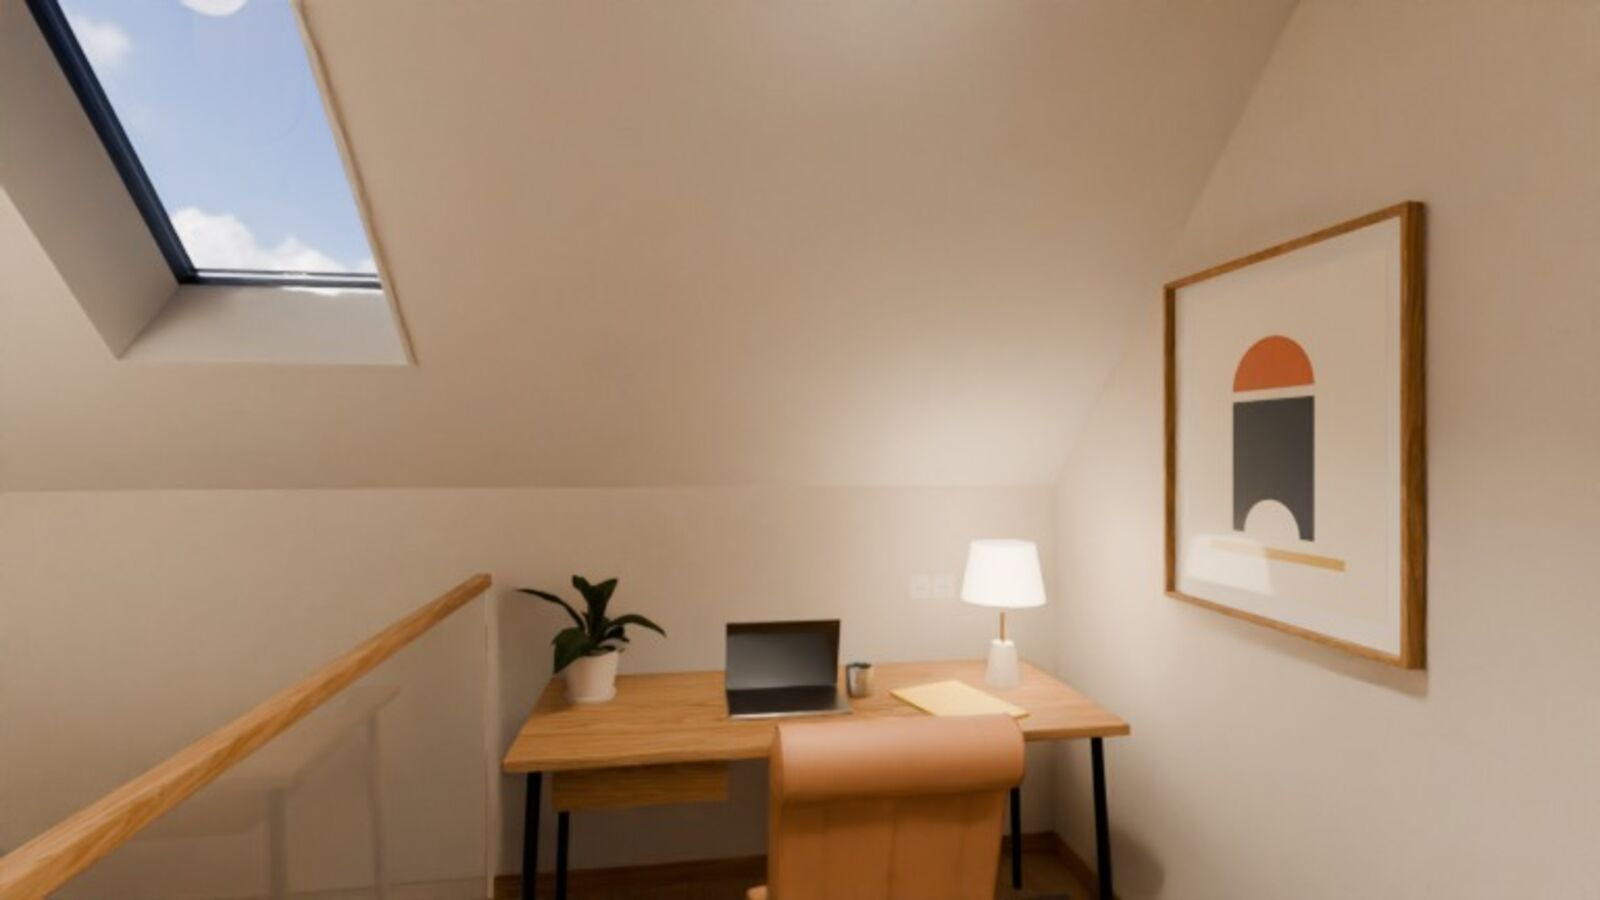
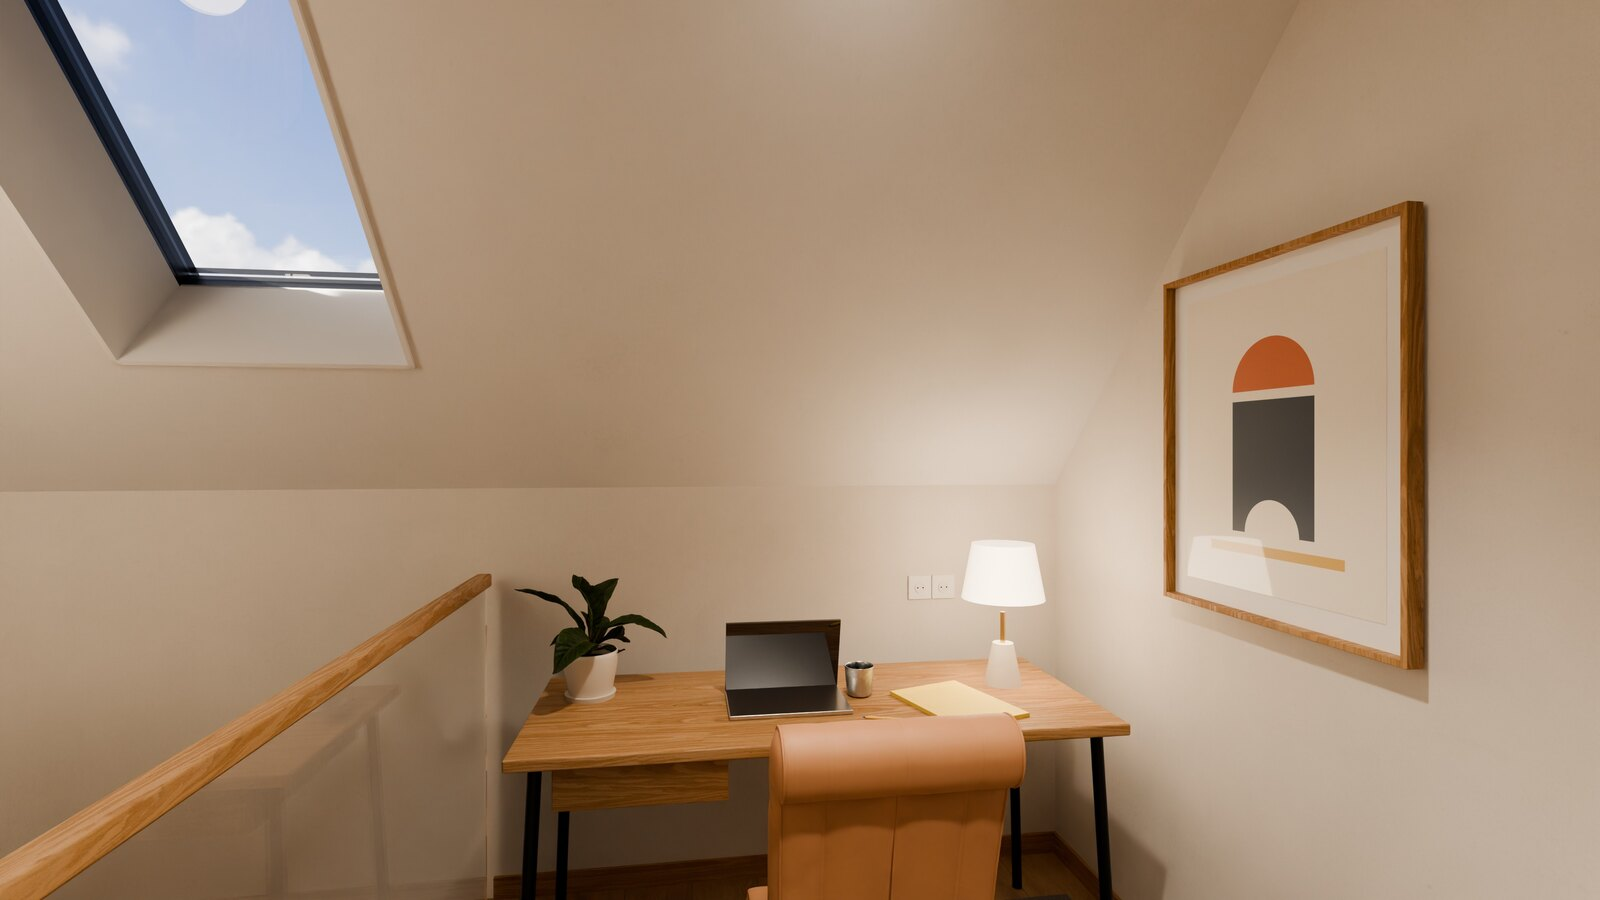
Boligannonse: 17 av 25 bilder i 4K

diff --git a/annonse/index.html b/annonse/index.html
@@ -103,7 +103,7 @@ img { max-width: 100%; }
 
 <div class="ark">
   <header class="topp">
-    <div class="merke"><strong>3D-visualisering av planlagt ombygging</strong><span>15 av 25 bilder er ferdige i 4K, resten er forhåndsvisninger</span></div>
+    <div class="merke"><strong>3D-visualisering av planlagt ombygging</strong><span>17 av 25 bilder er ferdige i 4K, resten er forhåndsvisninger</span></div>
     <h1>Enebolig med golfanneks og oppvarmet garasje</h1>
     <figure class="bilde hero"><button type="button" class="apne" data-i="0" aria-label="Åpne bildet: Fasaden mot nord med overbygd inngang"><img src="img/01-fasade.jpg" width="1600" height="900" alt="Fasaden mot nord med overbygd inngang"></button><figcaption>Fasaden mot nord med overbygd inngang</figcaption></figure>
     <p class="ingress">Et hus over tre plan med stue og kjøkken mot hagen, hovedsoverom med eget bad, tre barnerom og loft. I hagen står et anneks med golfsimulator. Trykk på et bilde for å se det i full oppløsning. På mobil fyller bildet hele skjermen når du snur den, og du blar ved å sveipe.</p>
@@ -113,8 +113,8 @@ img { max-width: 100%; }
 
 <section id="ute" class="del"><div class="delhode"><h2>Huset</h2><p>Brun stående kledning, sort ståltak og eik rundt alle åpninger. Overbygd inngang mot nord, dobbel garasje ved siden av.</p></div><div class="galleri"><figure class="bilde stor"><button type="button" class="apne" data-i="1" aria-label="Åpne bildet: Huset, garasjen og annekset sett fra nord"><img src="img/02-oversikt.jpg" width="1600" height="900" alt="Huset, garasjen og annekset sett fra nord" loading="lazy"></button><figcaption>Huset, garasjen og annekset sett fra nord</figcaption></figure></div></section>
 <section id="forste" class="del"><div class="delhode"><h2>Første etasje</h2><p>Stue, TV-stue, spisestue og kjøkken ligger på rekke mot hagen i sør. Tilbygget med kjøkken og spisestue ligger litt lavere enn stua og har 2,9 meter under taket.</p></div><div class="galleri"><figure class="bilde stor"><button type="button" class="apne" data-i="2" aria-label="Åpne bildet: Stua med karnapp mot hagen"><img src="img/04-stue.jpg" width="1600" height="900" alt="Stua med karnapp mot hagen" loading="lazy"></button><figcaption>Stua med karnapp mot hagen</figcaption></figure><figure class="bilde"><button type="button" class="apne" data-i="3" aria-label="Åpne bildet: Sofagruppa, med TV-stua bak glassveggen til venstre"><img src="img/05-stue-sofa.jpg" width="1600" height="900" alt="Sofagruppa, med TV-stua bak glassveggen til venstre" loading="lazy"></button><figcaption>Sofagruppa, med TV-stua bak glassveggen til venstre</figcaption></figure><figure class="bilde"><button type="button" class="apne" data-i="4" aria-label="Åpne bildet: Spisestue med rundt bord til åtte og skyvedører ut til terrassen"><img src="img/07-spisestue.jpg" width="1600" height="900" alt="Spisestue med rundt bord til åtte og skyvedører ut til terrassen" loading="lazy"></button><figcaption>Spisestue med rundt bord til åtte og skyvedører ut til terrassen</figcaption></figure><figure class="bilde"><button type="button" class="apne" data-i="5" aria-label="Åpne bildet: Kjøkken med mørk brune fronter og øy i Dekton"><img src="img/08-kjokken.jpg" width="1600" height="900" alt="Kjøkken med mørk brune fronter og øy i Dekton" loading="lazy"></button><figcaption>Kjøkken med mørk brune fronter og øy i Dekton</figcaption></figure><figure class="bilde"><button type="button" class="apne" data-i="6" aria-label="Åpne bildet: Kjøkkenøya har usynlig induksjon under steinplata"><img src="img/09-kjokken-oy.jpg" width="1600" height="900" alt="Kjøkkenøya har usynlig induksjon under steinplata" loading="lazy"></button><figcaption>Kjøkkenøya har usynlig induksjon under steinplata</figcaption></figure><figure class="bilde"><button type="button" class="apne" data-i="7" aria-label="Åpne bildet: TV-stua kan stenges av med glassfoldevegg"><img src="img/06-tvstue.jpg" width="1600" height="900" alt="TV-stua kan stenges av med glassfoldevegg" loading="lazy"></button><figcaption>TV-stua kan stenges av med glassfoldevegg</figcaption></figure><figure class="bilde"><button type="button" class="apne" data-i="8" aria-label="Åpne bildet: Entréen sett fra hoveddøra, med stua innerst"><img src="img/03-entre.jpg" width="1600" height="900" alt="Entréen sett fra hoveddøra, med stua innerst" loading="lazy"></button><figcaption>Entréen sett fra hoveddøra, med stua innerst</figcaption></figure></div></section>
-<section id="andre" class="del"><div class="delhode"><h2>Andre etasje</h2><p>Hovedsoverom med eget bad og walk-in, tre barnerom, barnebad, vaskerom og hjemmekontor.</p></div><div class="galleri"><figure class="bilde stor"><button type="button" class="apne" data-i="9" aria-label="Åpne bildet: Hovedsoverommet, med loftstrappa utenfor døra"><img src="img/10-hovedsoverom.jpg" width="1600" height="900" alt="Hovedsoverommet, med loftstrappa utenfor døra" loading="lazy"></button><figcaption>Hovedsoverommet, med loftstrappa utenfor døra</figcaption></figure><figure class="bilde"><button type="button" class="apne" data-i="10" aria-label="Åpne bildet: Bad til hovedsoverommet med dusj under skråtaket"><img src="img/11-masterbad.jpg" width="1600" height="900" alt="Bad til hovedsoverommet med dusj under skråtaket" loading="lazy"></button><figcaption>Bad til hovedsoverommet med dusj under skråtaket</figcaption></figure><figure class="bilde"><button type="button" class="apne" data-i="11" aria-label="Åpne bildet: Walk-in med plassbygd innredning i eik"><img src="img/12-walkin.jpg" width="1600" height="900" alt="Walk-in med plassbygd innredning i eik" loading="lazy"></button><figcaption>Walk-in med plassbygd innredning i eik</figcaption></figure><figure class="bilde"><button type="button" class="apne" data-i="12" aria-label="Åpne bildet: Barnerom med gulvhøyt vindu mot vest"><img src="img/13-barnerom2.jpg" width="1600" height="900" alt="Barnerom med gulvhøyt vindu mot vest" loading="lazy"></button><figcaption>Barnerom med gulvhøyt vindu mot vest</figcaption></figure><figure class="bilde"><button type="button" class="apne" data-i="13" aria-label="Åpne bildet: Barnerom med lenestol ved vinduet"><img src="img/14-barnerom3.jpg" width="1600" height="900" alt="Barnerom med lenestol ved vinduet" loading="lazy"></button><figcaption>Barnerom med lenestol ved vinduet</figcaption></figure><figure class="bilde"><button type="button" class="apne" data-i="14" aria-label="Åpne bildet: Barnerom med takvinduer mot sør"><img src="img/15-barnerom1.jpg" width="1600" height="900" alt="Barnerom med takvinduer mot sør" loading="lazy"></button><figcaption>Barnerom med takvinduer mot sør</figcaption></figure><figure class="bilde"><button type="button" class="apne" data-i="15" aria-label="Åpne bildet: Barnebad med dobbel servant og takvinduer"><img src="img/25-barnebad.jpg" width="1600" height="900" alt="Barnebad med dobbel servant og takvinduer" loading="lazy"><span class="lav">Lav kvalitet, 4K kommer</span></button><figcaption>Barnebad med dobbel servant og takvinduer</figcaption></figure><figure class="bilde"><button type="button" class="apne" data-i="16" aria-label="Åpne bildet: Hjemmekontor i nisjen ved trappa"><img src="img/16-kontor.jpg" width="1600" height="900" alt="Hjemmekontor i nisjen ved trappa" loading="lazy"><span class="lav">Lav kvalitet, 4K kommer</span></button><figcaption>Hjemmekontor i nisjen ved trappa</figcaption></figure></div></section>
-<section id="loft" class="del"><div class="delhode"><h2>Loftet</h2><p>Loftet har gjesterom i vest og et stort hobbyrom i øst, med tre takvinduer mot nord.</p></div><div class="galleri"><figure class="bilde stor"><button type="button" class="apne" data-i="17" aria-label="Åpne bildet: Hobbyrommet på loftet"><img src="img/17-loft.jpg" width="1600" height="900" alt="Hobbyrommet på loftet" loading="lazy"><span class="lav">Lav kvalitet, 4K kommer</span></button><figcaption>Hobbyrommet på loftet</figcaption></figure><figure class="bilde"><button type="button" class="apne" data-i="18" aria-label="Åpne bildet: Gjesterommet under mønet"><img src="img/18-loft-gjest.jpg" width="1600" height="900" alt="Gjesterommet under mønet" loading="lazy"><span class="lav">Lav kvalitet, 4K kommer</span></button><figcaption>Gjesterommet under mønet</figcaption></figure></div></section>
+<section id="andre" class="del"><div class="delhode"><h2>Andre etasje</h2><p>Hovedsoverom med eget bad og walk-in, tre barnerom, barnebad, vaskerom og hjemmekontor.</p></div><div class="galleri"><figure class="bilde stor"><button type="button" class="apne" data-i="9" aria-label="Åpne bildet: Hovedsoverommet, med loftstrappa utenfor døra"><img src="img/10-hovedsoverom.jpg" width="1600" height="900" alt="Hovedsoverommet, med loftstrappa utenfor døra" loading="lazy"></button><figcaption>Hovedsoverommet, med loftstrappa utenfor døra</figcaption></figure><figure class="bilde"><button type="button" class="apne" data-i="10" aria-label="Åpne bildet: Bad til hovedsoverommet med dusj under skråtaket"><img src="img/11-masterbad.jpg" width="1600" height="900" alt="Bad til hovedsoverommet med dusj under skråtaket" loading="lazy"></button><figcaption>Bad til hovedsoverommet med dusj under skråtaket</figcaption></figure><figure class="bilde"><button type="button" class="apne" data-i="11" aria-label="Åpne bildet: Walk-in med plassbygd innredning i eik"><img src="img/12-walkin.jpg" width="1600" height="900" alt="Walk-in med plassbygd innredning i eik" loading="lazy"></button><figcaption>Walk-in med plassbygd innredning i eik</figcaption></figure><figure class="bilde"><button type="button" class="apne" data-i="12" aria-label="Åpne bildet: Barnerom med gulvhøyt vindu mot vest"><img src="img/13-barnerom2.jpg" width="1600" height="900" alt="Barnerom med gulvhøyt vindu mot vest" loading="lazy"></button><figcaption>Barnerom med gulvhøyt vindu mot vest</figcaption></figure><figure class="bilde"><button type="button" class="apne" data-i="13" aria-label="Åpne bildet: Barnerom med lenestol ved vinduet"><img src="img/14-barnerom3.jpg" width="1600" height="900" alt="Barnerom med lenestol ved vinduet" loading="lazy"></button><figcaption>Barnerom med lenestol ved vinduet</figcaption></figure><figure class="bilde"><button type="button" class="apne" data-i="14" aria-label="Åpne bildet: Barnerom med takvinduer mot sør"><img src="img/15-barnerom1.jpg" width="1600" height="900" alt="Barnerom med takvinduer mot sør" loading="lazy"></button><figcaption>Barnerom med takvinduer mot sør</figcaption></figure><figure class="bilde"><button type="button" class="apne" data-i="15" aria-label="Åpne bildet: Barnebad med dobbel servant og takvinduer"><img src="img/25-barnebad.jpg" width="1600" height="900" alt="Barnebad med dobbel servant og takvinduer" loading="lazy"><span class="lav">Lav kvalitet, 4K kommer</span></button><figcaption>Barnebad med dobbel servant og takvinduer</figcaption></figure><figure class="bilde"><button type="button" class="apne" data-i="16" aria-label="Åpne bildet: Hjemmekontor i nisjen ved trappa"><img src="img/16-kontor.jpg" width="1600" height="900" alt="Hjemmekontor i nisjen ved trappa" loading="lazy"></button><figcaption>Hjemmekontor i nisjen ved trappa</figcaption></figure></div></section>
+<section id="loft" class="del"><div class="delhode"><h2>Loftet</h2><p>Loftet har gjesterom i vest og et stort hobbyrom i øst, med tre takvinduer mot nord.</p></div><div class="galleri"><figure class="bilde stor"><button type="button" class="apne" data-i="17" aria-label="Åpne bildet: Hobbyrommet på loftet"><img src="img/17-loft.jpg" width="1600" height="900" alt="Hobbyrommet på loftet" loading="lazy"></button><figcaption>Hobbyrommet på loftet</figcaption></figure><figure class="bilde"><button type="button" class="apne" data-i="18" aria-label="Åpne bildet: Gjesterommet under mønet"><img src="img/18-loft-gjest.jpg" width="1600" height="900" alt="Gjesterommet under mønet" loading="lazy"><span class="lav">Lav kvalitet, 4K kommer</span></button><figcaption>Gjesterommet under mønet</figcaption></figure></div></section>
 <section id="hage" class="del"><div class="delhode"><h2>Terrasse og hage</h2><p>Terrassen ligger utenfor spisestua og fortsetter rundt hjørnet til kjøkkendøra. Hagen er skjermet av hekk.</p></div><div class="galleri"><figure class="bilde stor"><button type="button" class="apne" data-i="19" aria-label="Åpne bildet: Terrassen sett fra plenen"><img src="img/19-terrasse.jpg" width="1600" height="900" alt="Terrassen sett fra plenen" loading="lazy"><span class="lav">Lav kvalitet, 4K kommer</span></button><figcaption>Terrassen sett fra plenen</figcaption></figure><figure class="bilde"><button type="button" class="apne" data-i="20" aria-label="Åpne bildet: Sofagruppe på terrassen, annekset innerst i hagen"><img src="img/20-terrasse-ute.jpg" width="1600" height="900" alt="Sofagruppe på terrassen, annekset innerst i hagen" loading="lazy"><span class="lav">Lav kvalitet, 4K kommer</span></button><figcaption>Sofagruppe på terrassen, annekset innerst i hagen</figcaption></figure><figure class="bilde"><button type="button" class="apne" data-i="21" aria-label="Åpne bildet: Hellegang over plenen til annekset"><img src="img/21-hage-anneks.jpg" width="1600" height="900" alt="Hellegang over plenen til annekset" loading="lazy"><span class="lav">Lav kvalitet, 4K kommer</span></button><figcaption>Hellegang over plenen til annekset</figcaption></figure></div></section>
 <section id="anneks" class="del"><div class="delhode"><h2>Anneks og garasje</h2><p>Annekset på 40 kvadratmeter har golfsimulator med lerret fra vegg til vegg og en liten lounge. Garasjen er dobbel og oppvarmet.</p></div><div class="galleri"><figure class="bilde stor"><button type="button" class="apne" data-i="22" aria-label="Åpne bildet: Golfsimulatoren i annekset"><img src="img/22-golf.jpg" width="1600" height="900" alt="Golfsimulatoren i annekset" loading="lazy"><span class="lav">Lav kvalitet, 4K kommer</span></button><figcaption>Golfsimulatoren i annekset</figcaption></figure><figure class="bilde"><button type="button" class="apne" data-i="23" aria-label="Åpne bildet: Loungen i annekset, under himling av eikespiler"><img src="img/23-golf-lounge.jpg" width="1600" height="900" alt="Loungen i annekset, under himling av eikespiler" loading="lazy"><span class="lav">Lav kvalitet, 4K kommer</span></button><figcaption>Loungen i annekset, under himling av eikespiler</figcaption></figure><figure class="bilde"><button type="button" class="apne" data-i="24" aria-label="Åpne bildet: Oppvarmet garasje med arbeidsbenk og skapvegg"><img src="img/24-garasje.jpg" width="1600" height="900" alt="Oppvarmet garasje med arbeidsbenk og skapvegg" loading="lazy"><span class="lav">Lav kvalitet, 4K kommer</span></button><figcaption>Oppvarmet garasje med arbeidsbenk og skapvegg</figcaption></figure></div></section>
 
@@ -134,7 +134,7 @@ img { max-width: 100%; }
 
 <script>
 (function () {
-  var data = [["01-fasade","Fasaden mot nord med overbygd inngang",1],["02-oversikt","Huset, garasjen og annekset sett fra nord",1],["04-stue","Stua med karnapp mot hagen",1],["05-stue-sofa","Sofagruppa, med TV-stua bak glassveggen til venstre",1],["07-spisestue","Spisestue med rundt bord til åtte og skyvedører ut til terrassen",1],["08-kjokken","Kjøkken med mørk brune fronter og øy i Dekton",1],["09-kjokken-oy","Kjøkkenøya har usynlig induksjon under steinplata",1],["06-tvstue","TV-stua kan stenges av med glassfoldevegg",1],["03-entre","Entréen sett fra hoveddøra, med stua innerst",1],["10-hovedsoverom","Hovedsoverommet, med loftstrappa utenfor døra",1],["11-masterbad","Bad til hovedsoverommet med dusj under skråtaket",1],["12-walkin","Walk-in med plassbygd innredning i eik",1],["13-barnerom2","Barnerom med gulvhøyt vindu mot vest",1],["14-barnerom3","Barnerom med lenestol ved vinduet",1],["15-barnerom1","Barnerom med takvinduer mot sør",1],["25-barnebad","Barnebad med dobbel servant og takvinduer",0],["16-kontor","Hjemmekontor i nisjen ved trappa",0],["17-loft","Hobbyrommet på loftet",0],["18-loft-gjest","Gjesterommet under mønet",0],["19-terrasse","Terrassen sett fra plenen",0],["20-terrasse-ute","Sofagruppe på terrassen, annekset innerst i hagen",0],["21-hage-anneks","Hellegang over plenen til annekset",0],["22-golf","Golfsimulatoren i annekset",0],["23-golf-lounge","Loungen i annekset, under himling av eikespiler",0],["24-garasje","Oppvarmet garasje med arbeidsbenk og skapvegg",0]];
+  var data = [["01-fasade","Fasaden mot nord med overbygd inngang",1],["02-oversikt","Huset, garasjen og annekset sett fra nord",1],["04-stue","Stua med karnapp mot hagen",1],["05-stue-sofa","Sofagruppa, med TV-stua bak glassveggen til venstre",1],["07-spisestue","Spisestue med rundt bord til åtte og skyvedører ut til terrassen",1],["08-kjokken","Kjøkken med mørk brune fronter og øy i Dekton",1],["09-kjokken-oy","Kjøkkenøya har usynlig induksjon under steinplata",1],["06-tvstue","TV-stua kan stenges av med glassfoldevegg",1],["03-entre","Entréen sett fra hoveddøra, med stua innerst",1],["10-hovedsoverom","Hovedsoverommet, med loftstrappa utenfor døra",1],["11-masterbad","Bad til hovedsoverommet med dusj under skråtaket",1],["12-walkin","Walk-in med plassbygd innredning i eik",1],["13-barnerom2","Barnerom med gulvhøyt vindu mot vest",1],["14-barnerom3","Barnerom med lenestol ved vinduet",1],["15-barnerom1","Barnerom med takvinduer mot sør",1],["25-barnebad","Barnebad med dobbel servant og takvinduer",0],["16-kontor","Hjemmekontor i nisjen ved trappa",1],["17-loft","Hobbyrommet på loftet",1],["18-loft-gjest","Gjesterommet under mønet",0],["19-terrasse","Terrassen sett fra plenen",0],["20-terrasse-ute","Sofagruppe på terrassen, annekset innerst i hagen",0],["21-hage-anneks","Hellegang over plenen til annekset",0],["22-golf","Golfsimulatoren i annekset",0],["23-golf-lounge","Loungen i annekset, under himling av eikespiler",0],["24-garasje","Oppvarmet garasje med arbeidsbenk og skapvegg",0]];
   var lys = document.getElementById("lys"), rom = document.getElementById("lys-rom"), bilde = document.getElementById("lys-bilde");
   var tekst = document.getElementById("lys-tekst"), teller = document.getElementById("lys-teller"), zoom = document.getElementById("lys-zoom");
   var i = 0, sist = null;
